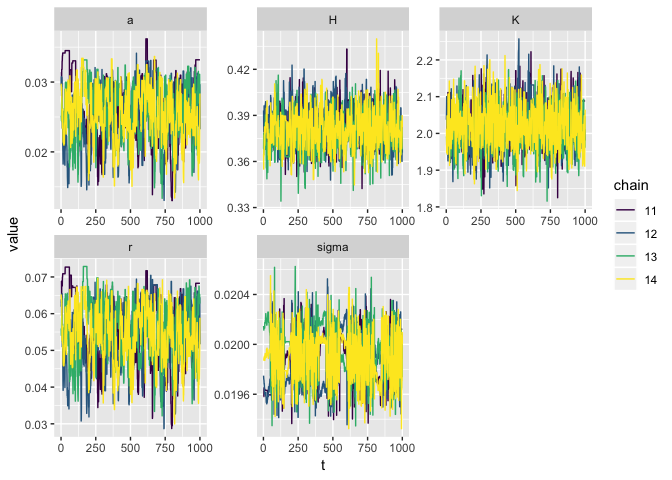
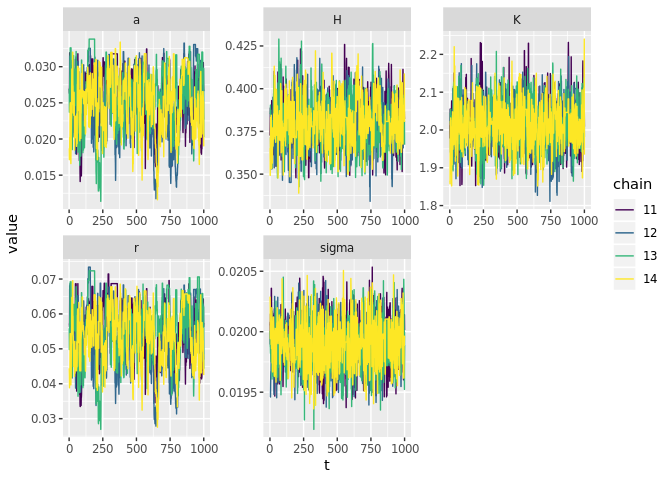
greta run w/ 100 replicates

diff --git a/code/greta.md b/code/greta.md
@@ -6,6 +6,7 @@ Carl Boettiger
 ``` r
 library(tidyverse)
 library(greta) # remotes::install_github("greta-dev/greta")
+set.seed(123456)
 ```
 
 ``` r
@@ -26,7 +27,9 @@ data %>% ggplot(aes(t,x, group=reps)) + geom_line(alpha=0.1)
 ![](greta_files/figure-gfm/unnamed-chunk-2-1.png)<!-- -->
 
 ``` r
-wide <- data %>% spread(reps, x) %>% select(-t) %>% select(1:5) %>% as.matrix()
+wide <- data %>% spread(reps, x) %>% select(-t) %>% 
+  select(1:5) %>% # how many reps we use
+  as.matrix()
 n <- dim(wide)[1]
 ```
 
@@ -60,6 +63,7 @@ r <- uniform(0, 1)
 #Q <- uniform(0, 10)
 sigma <- uniform(0, 1)
 
+
 # Model
 mean <- x_t + r * x_t * (1 - x_t / K) - a * x_t ^ Q / (x_t ^ Q + H ^ Q)
 distribution(x_t1) <- normal(mean, sigma)
@@ -67,96 +71,101 @@ m <- model(K, a, H, sigma, r)
 ```
 
 ``` r
-draws <- mcmc(m, n_samples = 1000, warmup = 3000, chains = 4)
+system.time({
+  draws <- mcmc(m, n_samples = 1000, warmup = 3000, chains = 4)
+})
 ```
 
     ## 
-    ## running 4 chains simultaneously on up to 4 cores
+    ## running 4 chains simultaneously on up to 16 cores
 
     ## 
         warmup                                           0/3000 | eta:  ?s          
-        warmup =                                        50/3000 | eta:  4m | 4% bad 
-        warmup =                                       100/3000 | eta:  4m | 2% bad 
-        warmup ==                                      150/3000 | eta:  4m | 1% bad 
-        warmup ===                                     200/3000 | eta:  3m | 1% bad 
-        warmup ===                                     250/3000 | eta:  3m | <1% bad
-        warmup ====                                    300/3000 | eta:  3m | <1% bad
-        warmup ====                                    350/3000 | eta:  3m | <1% bad
-        warmup =====                                   400/3000 | eta:  3m | <1% bad
-        warmup ======                                  450/3000 | eta:  3m | <1% bad
-        warmup ======                                  500/3000 | eta:  3m | <1% bad
-        warmup =======                                 550/3000 | eta:  3m | <1% bad
-        warmup ========                                600/3000 | eta:  3m | <1% bad
-        warmup ========                                650/3000 | eta:  2m | <1% bad
-        warmup =========                               700/3000 | eta:  2m | <1% bad
-        warmup ==========                              750/3000 | eta:  2m | <1% bad
-        warmup ==========                              800/3000 | eta:  2m | <1% bad
-        warmup ===========                             850/3000 | eta:  2m | <1% bad
-        warmup ===========                             900/3000 | eta:  2m | <1% bad
-        warmup ============                            950/3000 | eta:  2m | <1% bad
-        warmup =============                          1000/3000 | eta:  2m | <1% bad
-        warmup =============                          1050/3000 | eta:  2m | <1% bad
-        warmup ==============                         1100/3000 | eta:  2m | <1% bad
-        warmup ===============                        1150/3000 | eta:  2m | <1% bad
-        warmup ===============                        1200/3000 | eta:  2m | <1% bad
-        warmup ================                       1250/3000 | eta:  2m | <1% bad
-        warmup ================                       1300/3000 | eta:  2m | <1% bad
-        warmup =================                      1350/3000 | eta:  2m | <1% bad
-        warmup ==================                     1400/3000 | eta:  2m | <1% bad
-        warmup ==================                     1450/3000 | eta:  2m | <1% bad
-        warmup ===================                    1500/3000 | eta:  2m | <1% bad
-        warmup ====================                   1550/3000 | eta:  1m | <1% bad
-        warmup ====================                   1600/3000 | eta:  1m | <1% bad
-        warmup =====================                  1650/3000 | eta:  1m | <1% bad
-        warmup ======================                 1700/3000 | eta:  1m | <1% bad
-        warmup ======================                 1750/3000 | eta:  1m | <1% bad
-        warmup =======================                1800/3000 | eta:  1m | <1% bad
-        warmup =======================                1850/3000 | eta:  1m | <1% bad
-        warmup ========================               1900/3000 | eta:  1m | <1% bad
-        warmup =========================              1950/3000 | eta:  1m | <1% bad
-        warmup =========================              2000/3000 | eta:  1m | <1% bad
-        warmup ==========================             2050/3000 | eta:  1m | <1% bad
-        warmup ===========================            2100/3000 | eta:  1m | <1% bad
-        warmup ===========================            2150/3000 | eta:  1m | <1% bad
-        warmup ============================           2200/3000 | eta:  1m | <1% bad
-        warmup ============================           2250/3000 | eta: 48s | <1% bad
-        warmup =============================          2300/3000 | eta: 45s | <1% bad
-        warmup ==============================         2350/3000 | eta: 42s | <1% bad
-        warmup ==============================         2400/3000 | eta: 39s | <1% bad
-        warmup ===============================        2450/3000 | eta: 36s | <1% bad
-        warmup ================================       2500/3000 | eta: 33s | <1% bad
-        warmup ================================       2550/3000 | eta: 29s | <1% bad
-        warmup =================================      2600/3000 | eta: 26s | <1% bad
-        warmup ==================================     2650/3000 | eta: 23s | <1% bad
-        warmup ==================================     2700/3000 | eta: 20s | <1% bad
-        warmup ===================================    2750/3000 | eta: 16s | <1% bad
-        warmup ===================================    2800/3000 | eta: 13s | <1% bad
-        warmup ====================================   2850/3000 | eta: 10s | <1% bad
-        warmup =====================================  2900/3000 | eta:  7s | <1% bad
-        warmup =====================================  2950/3000 | eta:  3s | <1% bad
-        warmup ====================================== 3000/3000 | eta:  0s | <1% bad
+        warmup =                                        50/3000 | eta:  5m          
+        warmup =                                       100/3000 | eta:  3m          
+        warmup ==                                      150/3000 | eta:  3m          
+        warmup ===                                     200/3000 | eta:  2m          
+        warmup ===                                     250/3000 | eta:  2m          
+        warmup ====                                    300/3000 | eta:  2m          
+        warmup ====                                    350/3000 | eta:  2m          
+        warmup =====                                   400/3000 | eta:  2m          
+        warmup ======                                  450/3000 | eta:  2m          
+        warmup ======                                  500/3000 | eta:  1m          
+        warmup =======                                 550/3000 | eta:  1m          
+        warmup ========                                600/3000 | eta:  1m          
+        warmup ========                                650/3000 | eta:  1m          
+        warmup =========                               700/3000 | eta:  1m          
+        warmup ==========                              750/3000 | eta:  1m          
+        warmup ==========                              800/3000 | eta:  1m          
+        warmup ===========                             850/3000 | eta:  1m          
+        warmup ===========                             900/3000 | eta:  1m          
+        warmup ============                            950/3000 | eta:  1m          
+        warmup =============                          1000/3000 | eta:  1m          
+        warmup =============                          1050/3000 | eta:  1m          
+        warmup ==============                         1100/3000 | eta:  1m          
+        warmup ===============                        1150/3000 | eta:  1m          
+        warmup ===============                        1200/3000 | eta:  1m          
+        warmup ================                       1250/3000 | eta:  1m          
+        warmup ================                       1300/3000 | eta: 49s          
+        warmup =================                      1350/3000 | eta: 47s          
+        warmup ==================                     1400/3000 | eta: 46s          
+        warmup ==================                     1450/3000 | eta: 44s          
+        warmup ===================                    1500/3000 | eta: 43s          
+        warmup ====================                   1550/3000 | eta: 41s          
+        warmup ====================                   1600/3000 | eta: 39s          
+        warmup =====================                  1650/3000 | eta: 38s          
+        warmup ======================                 1700/3000 | eta: 36s          
+        warmup ======================                 1750/3000 | eta: 35s          
+        warmup =======================                1800/3000 | eta: 34s          
+        warmup =======================                1850/3000 | eta: 32s          
+        warmup ========================               1900/3000 | eta: 31s          
+        warmup =========================              1950/3000 | eta: 29s          
+        warmup =========================              2000/3000 | eta: 28s          
+        warmup ==========================             2050/3000 | eta: 26s          
+        warmup ===========================            2100/3000 | eta: 25s          
+        warmup ===========================            2150/3000 | eta: 23s          
+        warmup ============================           2200/3000 | eta: 22s          
+        warmup ============================           2250/3000 | eta: 21s          
+        warmup =============================          2300/3000 | eta: 19s          
+        warmup ==============================         2350/3000 | eta: 18s          
+        warmup ==============================         2400/3000 | eta: 16s          
+        warmup ===============================        2450/3000 | eta: 15s          
+        warmup ================================       2500/3000 | eta: 14s          
+        warmup ================================       2550/3000 | eta: 12s          
+        warmup =================================      2600/3000 | eta: 11s          
+        warmup ==================================     2650/3000 | eta: 10s          
+        warmup ==================================     2700/3000 | eta:  8s          
+        warmup ===================================    2750/3000 | eta:  7s          
+        warmup ===================================    2800/3000 | eta:  5s          
+        warmup ====================================   2850/3000 | eta:  4s          
+        warmup =====================================  2900/3000 | eta:  3s          
+        warmup =====================================  2950/3000 | eta:  1s          
+        warmup ====================================== 3000/3000 | eta:  0s          
     ## 
       sampling                                           0/1000 | eta:  ?s          
-      sampling ==                                       50/1000 | eta: 38s          
-      sampling ====                                    100/1000 | eta: 39s          
-      sampling ======                                  150/1000 | eta: 45s          
-      sampling ========                                200/1000 | eta: 40s          
-      sampling ==========                              250/1000 | eta: 38s          
-      sampling ===========                             300/1000 | eta: 37s          
-      sampling =============                           350/1000 | eta: 35s          
-      sampling ===============                         400/1000 | eta: 33s          
-      sampling =================                       450/1000 | eta: 30s          
-      sampling ===================                     500/1000 | eta: 28s          
-      sampling =====================                   550/1000 | eta: 26s          
-      sampling =======================                 600/1000 | eta: 22s          
-      sampling =========================               650/1000 | eta: 20s          
-      sampling ===========================             700/1000 | eta: 17s          
-      sampling ============================            750/1000 | eta: 15s          
-      sampling ==============================          800/1000 | eta: 12s          
-      sampling ================================        850/1000 | eta:  9s          
-      sampling ==================================      900/1000 | eta:  6s          
-      sampling ====================================    950/1000 | eta:  3s          
+      sampling ==                                       50/1000 | eta: 29s          
+      sampling ====                                    100/1000 | eta: 36s          
+      sampling ======                                  150/1000 | eta: 28s          
+      sampling ========                                200/1000 | eta: 26s          
+      sampling ==========                              250/1000 | eta: 24s          
+      sampling ===========                             300/1000 | eta: 21s          
+      sampling =============                           350/1000 | eta: 20s          
+      sampling ===============                         400/1000 | eta: 18s          
+      sampling =================                       450/1000 | eta: 16s          
+      sampling ===================                     500/1000 | eta: 14s          
+      sampling =====================                   550/1000 | eta: 13s          
+      sampling =======================                 600/1000 | eta: 12s          
+      sampling =========================               650/1000 | eta: 10s          
+      sampling ===========================             700/1000 | eta:  8s          
+      sampling ============================            750/1000 | eta:  7s          
+      sampling ==============================          800/1000 | eta:  5s          
+      sampling ================================        850/1000 | eta:  4s          
+      sampling ==================================      900/1000 | eta:  3s          
+      sampling ====================================    950/1000 | eta:  1s          
       sampling ====================================== 1000/1000 | eta:  0s
+
+    ##    user  system elapsed 
+    ## 228.793  22.114 110.417
 
 ``` r
 summary(draws)
@@ -171,21 +180,21 @@ summary(draws)
     ## 1. Empirical mean and standard deviation for each variable,
     ##    plus standard error of the mean:
     ## 
-    ##          Mean        SD  Naive SE Time-series SE
-    ## K     2.02046 0.0573854 9.073e-04      1.835e-03
-    ## a     0.02569 0.0042425 6.708e-05      3.164e-04
-    ## H     0.38097 0.0120478 1.905e-04      4.344e-04
-    ## sigma 0.01990 0.0001989 3.144e-06      1.089e-05
-    ## r     0.05489 0.0085158 1.346e-04      6.163e-04
+    ##          Mean       SD  Naive SE Time-series SE
+    ## K     2.01314 0.057767 9.134e-04      1.846e-03
+    ## a     0.02529 0.004213 6.661e-05      3.152e-04
+    ## H     0.37991 0.013028 2.060e-04      4.934e-04
+    ## sigma 0.01990 0.000188 2.973e-06      5.014e-06
+    ## r     0.05431 0.008646 1.367e-04      6.216e-04
     ## 
     ## 2. Quantiles for each variable:
     ## 
     ##          2.5%     25%     50%     75%   97.5%
-    ## K     1.91220 1.98132 2.01761 2.05675 2.14039
-    ## a     0.01699 0.02291 0.02576 0.02879 0.03319
-    ## H     0.35908 0.37285 0.38080 0.38859 0.40509
-    ## sigma 0.01953 0.01976 0.01990 0.02004 0.02026
-    ## r     0.03777 0.04911 0.05503 0.06119 0.07044
+    ## K     1.90050 1.97546 2.01206 2.04836 2.12581
+    ## a     0.01624 0.02245 0.02538 0.02844 0.03248
+    ## H     0.35441 0.37135 0.37937 0.38837 0.40564
+    ## sigma 0.01954 0.01977 0.01990 0.02003 0.02027
+    ## r     0.03636 0.04849 0.05453 0.06075 0.06920
 
 ``` r
 #bayesplot::mcmc_trace(draws)
@@ -206,3 +215,18 @@ samples %>%
 ```
 
 ![](greta_files/figure-gfm/unnamed-chunk-9-1.png)<!-- -->
+
+``` r
+#Q = 5
+true <- data.frame(a = 0.023, r = .05, K = 2, H = .38, sigma = .02) %>%
+  gather(variable, value)
+```
+
+``` r
+samples %>% ggplot() + 
+  geom_histogram(aes(value), bins = 30)  +
+  geom_vline(data = true, aes(xintercept = value), col = "red", lwd = 1) + 
+  facet_wrap(~variable, scales = "free")
+```
+
+![](greta_files/figure-gfm/unnamed-chunk-11-1.png)<!-- -->
